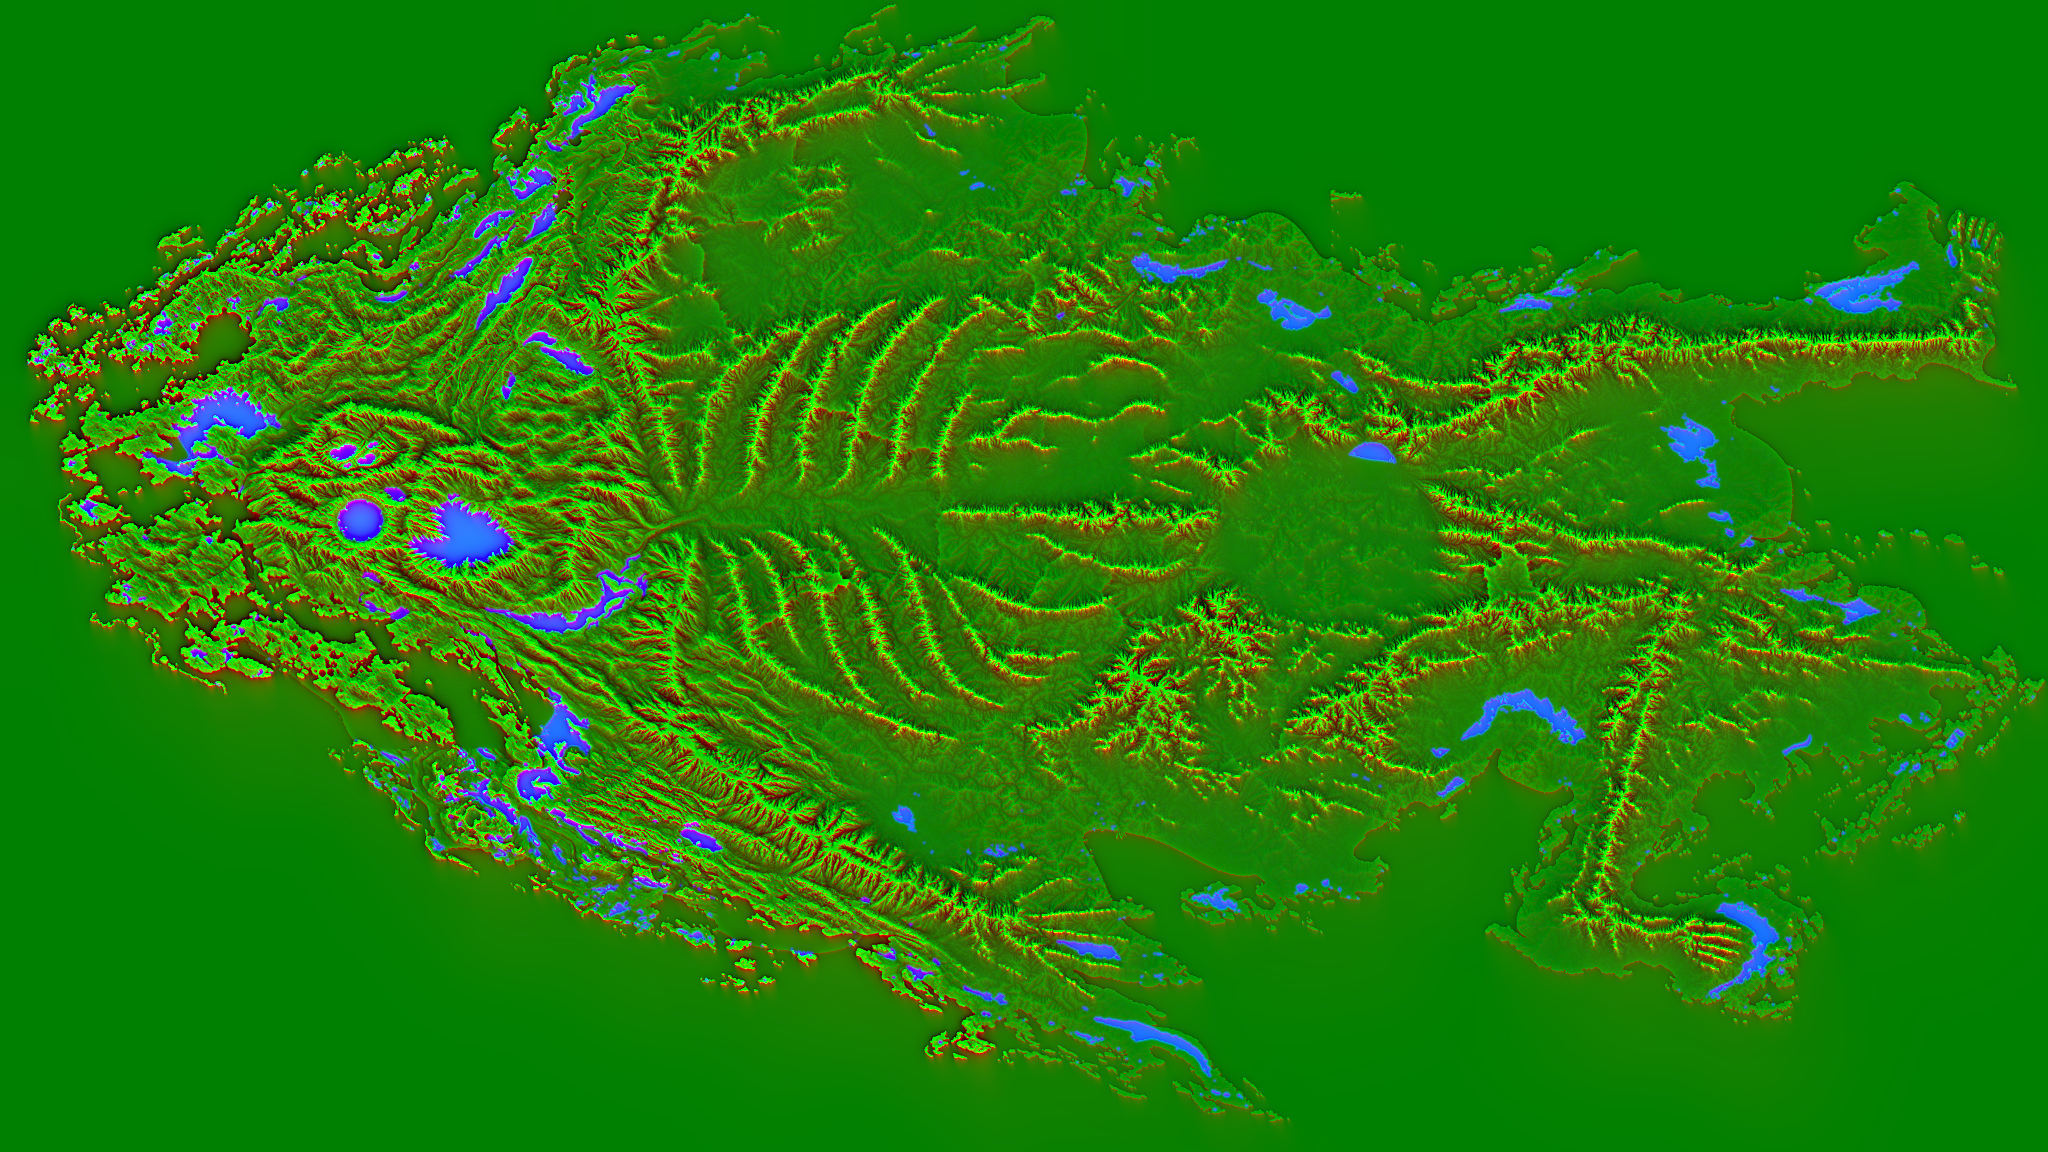
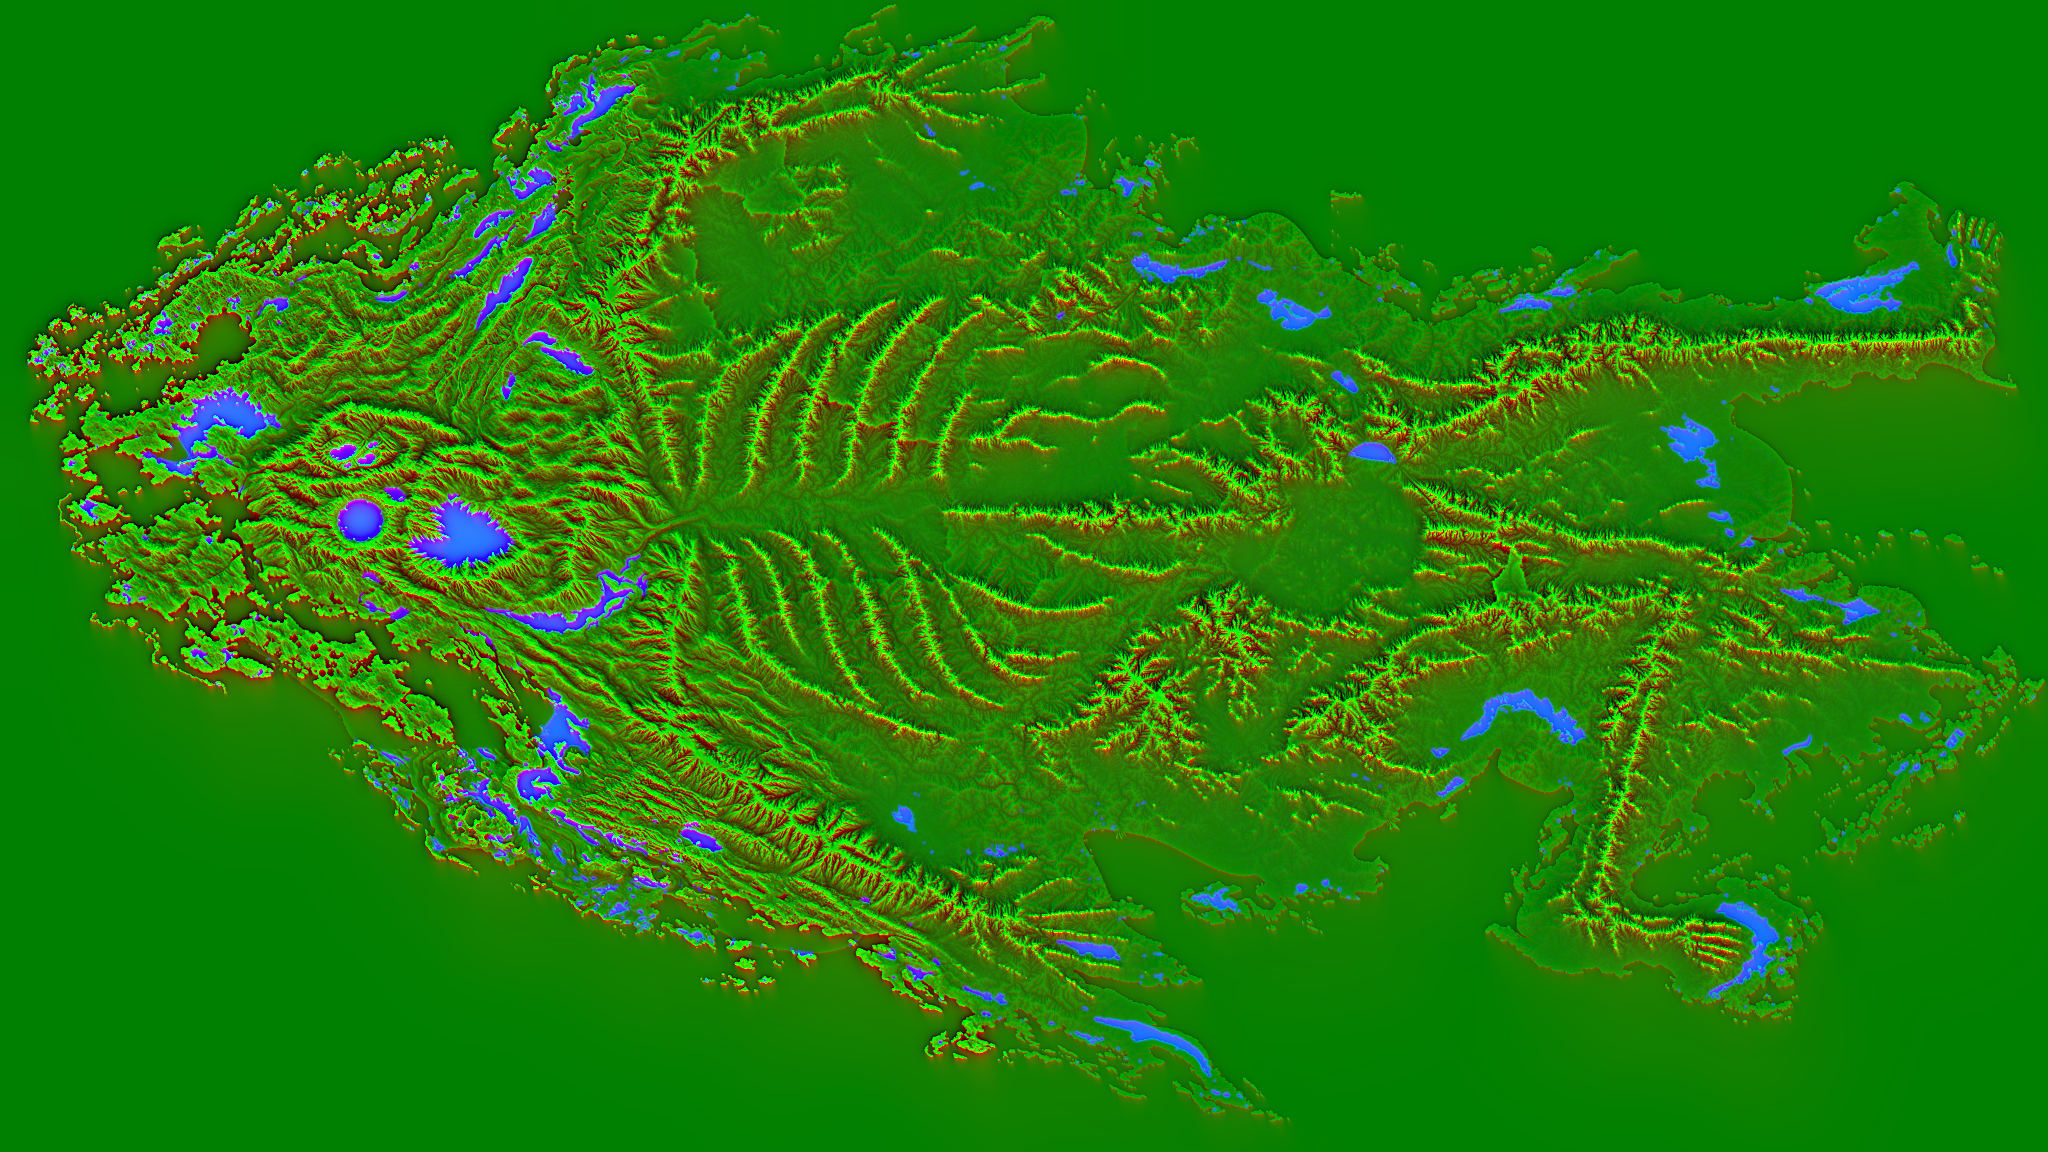
Body: each bone keeps its mass, pale in its whole body and stained in its gullies; warm country; the pan of the hips a basin with a broken shore; night retuned

diff --git a/src/places/reveal/land/body.ts b/src/places/reveal/land/body.ts
@@ -63,8 +63,8 @@ export const BODY_GROUND = /* glsl */ `
 #ifdef BODY
   ground = mix(ground, body, joined);
   // (By night the bones are broad pale ranges under the moon, each in its whole body, as the high ground stands: not their crest lines alone.)
-  float boneBody = joined * land * smoothstep(0.25, 0.45, height) * smoothstep(0.09, 0.24, dot(coarseGround, vec3(0.3, 0.55, 0.15)));
-  ground = mix(ground, vec3(0.62, 0.59, 0.52), 0.75 * uEmber.x * boneBody);
+  float boneBody = joined * land * smoothstep(0.25, 0.45, height) * smoothstep(0.14, 0.32, dot(coarseGround, vec3(0.3, 0.55, 0.15)));
+  ground = mix(ground, vec3(0.62, 0.59, 0.52), 0.35 * uEmber.x * boneBody);
 #endif
 `;
 
@@ -77,6 +77,8 @@ export const BODY_LIGHT = /* glsl */ `
   bodySlope /= mix(1.0, 0.55, lowness * wide);
 #endif
   slope *= mix(1.0, bodySlope, joined);
+  // (The salt of the pan lies damp and dark by night: no pale disc under the moon.)
+  ground *= 1.0 - 0.45 * saltFlat * uEmber.x * joined;
   // (By night the moon lights the ranges in their whole body, broad, as it does the high ground of any land seen from orbit: the
   // body of a bone stands toward it, and the fine relief is a grain on that, not a wire drawing.)
   slope = mix(slope, 0.7 * slope, uEmber.x * joined) - uBodyRelief2.w * boneBody * uEmber.x * normalize(uMoonDir.xz);
@@ -97,5 +99,13 @@ export const BODY_WET = /* glsl */ `
 mix(0.34, 0.045, smoothstep(940.0, 1380.0, uViewKm))
 #else
 0.34
+#endif
+`;
+
+/** The pan of the hips from orbit: salt on the level floor of its basin and no higher, so its shore is the foot of the ranges
+ *  round it, broken by their headlands, and nothing of it lies as a haze on the country beyond. */
+export const BODY_PAN = /* glsl */ `
+#ifdef BODY
+  panAt = mix(panAt, smoothstep(0.3, 0.5, panAt) * (1.0 - smoothstep(0.13, 0.19, height)), joined);
 #endif
 `;

diff --git a/src/places/reveal/land/index.ts b/src/places/reveal/land/index.ts
@@ -10,7 +10,7 @@ import { NOISE_GLSL, RIG_GLSL, RIG_VERTEX } from '../shared/glsl';
 import { WEATHER_GLSL } from '../shared/weather';
 import { LEVELS, pairFor, type Level } from './levels';
 import { OCEAN_GLSL, oceanUniforms } from './ocean';
-import { BODY_BIAS, BODY_CAST, BODY_COARSE, BODY_GROUND, BODY_LIGHT, BODY_PILE, BODY_PILE_END, BODY_READ, BODY_UNIFORMS, BODY_WET } from './body';
+import { BODY_BIAS, BODY_CAST, BODY_COARSE, BODY_GROUND, BODY_LIGHT, BODY_PAN, BODY_PILE, BODY_PILE_END, BODY_READ, BODY_UNIFORMS, BODY_WET } from './body';
 
 // The window of the first approved picture in the master (references/approved/7-reveal/pullback.json): the bed map covers it.
 const BED = { x: 1126.18, y: 1498.28, w: 293.34, h: 165.09 };
@@ -24,7 +24,7 @@ const FEEDER: [number, number][] = [[1224.0, 1440.0], [1226.8, 1468.5], [1221.0,
 const BODY_RELIEF = Number(import.meta.env.VITE_BODY_RELIEF ?? 1.6);
 const BODY_SHADOW = Number(import.meta.env.VITE_BODY_SHADOW ?? 1.0);
 const BODY_FINE = Number(import.meta.env.VITE_BODY_FINE ?? 0.7);
-const BODY_NIGHT = Number(import.meta.env.VITE_BODY_NIGHT ?? 0.028);
+const BODY_NIGHT = Number(import.meta.env.VITE_BODY_NIGHT ?? 0.018);
 
 export const PARTS = ['sea', 'continent', 'salt', 'lake', 'lava'] as const;
 
@@ -687,6 +687,7 @@ ${BODY_GROUND}
   // and into the sea, in streaks drawn along the fall of the land.
   vec2 fromPan = xz - uSalt;
   float panAt = dot(fromPan, fromPan) < 90000.0 ? (1.0 - smoothstep(0.6, 1.15, length(fromPan / vec2(212.0, 168.0)) + 0.36 * (readTile(uCloudTile, xz / 420.0, 1.0 / 420.0, 1.0).b - 0.5))) * land : 0.0;
+${BODY_PAN}
   float brine = smoothstep(0.17, 0.42, rawBrine);
   float saltFlat = panAt * (1.0 - brine);
   // (Salt in the air of the land round it: white where it is new, grey and tan where the crust is old or wet, never a blank.)

diff --git a/assets-src/reveal/land/body/make_body.py b/assets-src/reveal/land/body/make_body.py
@@ -31,7 +31,7 @@ HERE = os.path.dirname(os.path.abspath(__file__))
 ROOT = os.path.normpath(os.path.join(HERE, '..', '..', '..', '..'))
 MAPS = os.path.join(ROOT, 'public', 'assets', 'reveal', 'maps')
 LAND = os.path.join(ROOT, 'public', 'assets', 'reveal', 'land')
-WORK = os.path.join(ROOT, 'out', 'work', 'body')
+WORK = os.environ.get('BODYWORK', os.path.join(ROOT, 'out', 'work', 'body'))
 os.makedirs(WORK, exist_ok=True)
 F = int(os.environ.get('F', '1'))
 SHORE = 22 / 255.0
@@ -40,7 +40,7 @@ MASTER = {'cx': 2983.67, 'cy': 1727.13, 'width': 5295.59}
 KM_PER_MASTER_PX = 4536.0 / 5295.59
 RELIEF_KM = float(os.environ.get('RELIEF_KM', '16'))
 # How much of a bone's whole body is pale, beside its crest line: the width of bone against country.
-BODYW = float(os.environ.get('BODYW', '0.6'))
+BODYW = float(os.environ.get('BODYW', '1.0'))
 ONLY = os.environ.get('ONLY', '')
 TURN = math.atan2(-0.2, 0.78) - math.radians(3.0)
 SUN = (math.sin(TURN), -math.cos(TURN))
@@ -169,6 +169,14 @@ HEART = (1502.6, 841.3)
 THROAT = (1100.6, 929.5)
 
 
+def pan_reach(W, H):
+    """How far each cell lies from the middle of the pan of the hips, in its radius, the radius uneven round it: the floor of the
+    pan is a basin with a broken shore, headlands of the ranges standing into it, and no disc."""
+    y, x = np.mgrid[0:H, 0:W].astype(np.float32)
+    r = np.hypot((x * F - PAN[0]) / PAN[2], (y * F - PAN[1]) / PAN[3])
+    return r + 1.1 * (fbm((H, W), np.random.default_rng(SEED + 7), 110.0 / F, 4) - 0.5)
+
+
 def zone(W, H, at, inner, outer):
     """1 inside an ellipse given in px of the full map, falling to 0 between inner and outer of its radius."""
     y, x = np.mgrid[0:H, 0:W].astype(np.float32)
@@ -269,7 +277,7 @@ def outputs():
     # ---- colour: the country, with no light in it ----
     slope = np.hypot(gx, gy) * top * 0.5  # about the true fall, cell for cell
     # (The bones themselves, as the old map has them: a range that is a bone is pale in its whole body, stained, its valleys dark.)
-    body = smooth(0.4, 0.74, ndimage.gaussian_filter(h_old, 4.0 * px))
+    body = smooth(float(os.environ.get('BODY0', '0.36')), float(os.environ.get('BODY1', '0.68')), ndimage.gaussian_filter(h_old, 5.0 * px))
     ridge = e - ndimage.gaussian_filter(e, 5.0 * px)
     broad = ndimage.gaussian_filter(e, 14.0 * px)
     wet = np.log10(np.maximum(area, 1.0))
@@ -294,17 +302,17 @@ def outputs():
     s_dune = smooth(0.5, 0.7, p2)
     w_dune = smooth(-0.03, 0.03, 0.01 + 0.1 * s_dune + 0.03 * (mott - 0.5) - e_low) * smooth(0.0, 0.25, s_dune) * (1.0 - w_lava) * (1.0 - 0.7 * w_rust)
     w_olive = smooth(0.5, 0.64, 1.0 - p1) * (1.0 - w_dune) * (1.0 - w_rust)
-    lava = srgb(30, 30, 34)
-    rust = srgb(74, 43, 35)
-    dune = srgb(88, 72, 52)
-    olive = srgb(44, 50, 38)
-    fan = srgb(60, 50, 43)
-    growth = srgb(22, 34, 31)
-    slate = srgb(46, 48, 52)
+    lava = srgb(40, 36, 37)
+    rust = srgb(88, 52, 40)
+    dune = srgb(100, 82, 58)
+    olive = srgb(60, 63, 45)
+    fan = srgb(80, 62, 49)
+    growth = srgb(30, 44, 35)
+    slate = srgb(60, 58, 57)
     salt = srgb(206, 201, 190)
     bone = srgb(205, 192, 166)
     stained = srgb(96, 76, 61)
-    dull = srgb(52, 46, 43)
+    dull = srgb(70, 57, 48)
     scree = srgb(62, 58, 56)
     sand = srgb(202, 186, 152)
     cliff = srgb(64, 58, 54)
@@ -343,9 +351,15 @@ def outputs():
     upper = smooth(1790.0, 1850.0, fx - 0.33 * (900.0 - fy)) * smooth(45.0, 80.0, 1010.0 - fy) * (1.0 - smooth(2050.0, 2150.0, fx))
     lower = smooth(1740.0, 1800.0, fx - 0.4 * (fy - 1050.0)) * smooth(45.0, 80.0, fy - 1010.0) * (1.0 - smooth(2150.0, 2250.0, fx - 0.4 * (fy - 1050.0)))
     lesser = np.clip(upper + lower, 0.0, 1.0)
-    rock = mixc(rock, bone, np.clip(0.85 * crest + 0.5 * smooth(0.6, 0.95, e) + BODYW * body * smooth(0.16, 0.42, e) * (0.6 + 0.8 * mott), 0.0, 1.0) * (1.0 - 0.8 * lesser))
+    # (A bone keeps its mass: its whole body is pale, as broad as the old map has it, ridged by the relief, and stained where
+    # water gathers in its gullies and where the rock is rotten.)
+    gully = smooth(2.3, 3.3, wet) * (1.0 - smooth(0.5, 0.8, e))
+    rot = smooth(0.52, 0.7, fbm((H, W), rng, 22 * px, 4)) * (1.0 - smooth(0.35, 0.7, e))
+    mass = BODYW * body * (0.8 + 0.4 * mott) * (1.0 - 0.6 * gully) * (1.0 - 0.45 * rot) * (1.0 - 0.3 * smooth(0.0, 0.05, -ridge))
+    paleness = np.clip(np.maximum(0.85 * crest + 0.5 * smooth(0.6, 0.95, e), mass), 0.0, 1.0) * (1.0 - 0.8 * lesser)
+    rock = mixc(rock, bone, paleness)
     rock = mixc(rock, srgb(232, 232, 228), smooth(0.88, 0.98, e) * smooth(0.0, 0.05, ridge))
-    colour = mixc(country, rock, smooth(0.13, 0.36, e + 0.25 * np.maximum(ridge, 0.0) * 4.0))
+    colour = mixc(country, rock, np.maximum(smooth(0.13, 0.36, e + 0.25 * np.maximum(ridge, 0.0) * 4.0), np.clip(BODYW * 1.2 * body, 0.0, 1.0) * (1.0 - 0.8 * lesser)))
     # The coast: a pale hairline of beach on low shores, dark rock where the land meets the sea steep.
     low_shore = (1.0 - smooth(0.02, 0.07, ndimage.gaussian_filter(e, 2.0 * px))) * smooth(0.42, 0.56, fbm((H, W), rng, 120 * px, 3))
     beach = (1.0 - smooth(0.6, 2.2, d_shore)) * low_shore * dom
@@ -354,7 +368,7 @@ def outputs():
     colour = mixc(colour, cliff, 0.7 * steep_shore * dom)
     colour *= (0.93 + 0.14 * grain)[..., None]
     # The pan of the hips keeps the old map's own salt and brine.
-    pan_zone = zone(W, H, PAN, 0.6, 1.05)
+    pan_zone = 1.0 - smooth(0.62, 0.86, pan_reach(W, H))
     colour = mixc(colour, old_colour, pan_zone)
     # Where there is no land the old map stands, so the water's own reading of it is not moved.
     colour = np.where(dom[..., None], colour, old_colour)
@@ -401,7 +415,7 @@ def terrain():
     U = 0.035 + 0.16 * hills + 0.2 * smooth(0.3, 0.62, mid) + 0.85 * bone ** 1.5 + 1.5 * line * smooth(0.5, 0.7, hs)
     U *= 0.75 + 0.5 * lith
     # (The pan of the hips is a pan: level ground, its salt and brine those of the old map.)
-    U *= 1.0 - 0.9 * zone(W, H, PAN, 1.0, 1.25)
+    U *= 1.0 - 0.92 * (1.0 - smooth(0.72, 0.95, pan_reach(W, H)))
     U = np.where(dom, U, 0.0).astype(np.float32)
     K = (0.5 + 1.0 * fbm((H, W), rng, 60 * px, 4)).astype(np.float32)
     K = np.where(river, 40.0, K).astype(np.float32)
